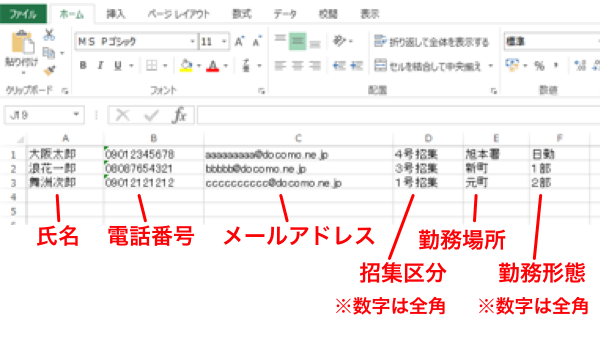
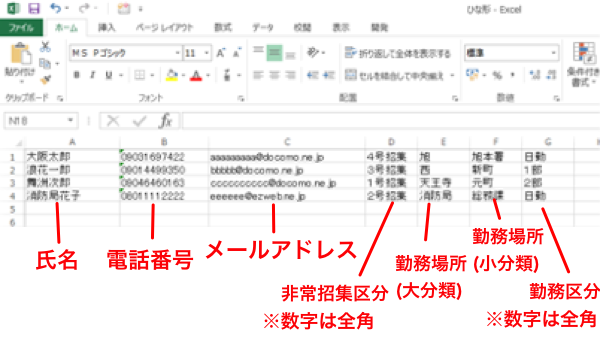
add guide22

diff --git a/FireEmergency/Guide22Dialog.swift b/FireEmergency/Guide22Dialog.swift
@@ -119,20 +119,20 @@ class Guide22Dialog {
         scroll.addSubview(text0)
         
         //TextView1生成
-        text1.frame = CGRectMake(0,40, parent.view.frame.width-20, 180)
+        text1.frame = CGRectMake(0,40, parent.view.frame.width-20, 208)
         text1.backgroundColor = UIColor.clearColor()
         text1.font = UIFont.systemFontOfSize(CGFloat(16))
         text1.textColor = UIColor.blackColor()
         text1.textAlignment = NSTextAlignment.Left
         text1.editable = false
         text1.scrollEnabled = true
-        text1.text="①エクセルデータの作成\n氏名、電話番号、メールアドレス、非常招集区分、所属(大分類)、所属(小分類)、勤務区分を入力してください。\n※非常招集区分、勤務区分の「数字」は必ず【全角】で入力してください。\n※項目の順番は必ず同じにしてください。入力データ以外の項目や番号を入力すると読み込めません。"
+        text1.text="①エクセルデータの作成\n氏名、電話番号、メールアドレス、非常招集区分、所属(大分類)、所属(小分類)、勤務区分を入力してください。\n※非常招集区分、勤務区分の「数字」は必ず【全角】で入力してください。\n※入力データ以外の項目や番号は入力しないでください。\n※勤務場所(大分類)の入力例　旭→正、旭消防署→誤"
         scroll.addSubview(text1)
 
         //image1生成
         let img1 = UIImage(named: "guide221.png")
         image1.image = img1
-        image1.frame = CGRectMake((parent.view.frame.width-320)/2, 240, 300, 173)
+        image1.frame = CGRectMake((parent.view.frame.width-320)/2, 250, 300, 173)
         scroll.addSubview(image1)
         
         //TextView2生成
@@ -149,11 +149,11 @@ class Guide22Dialog {
         //image2生成
         let img2 = UIImage(named: "guide222.png")
         image2.image = img2
-        image2.frame = CGRectMake((parent.view.frame.width-320)/2, 553, 300, 376)
+        image2.frame = CGRectMake((parent.view.frame.width-320)/2, 543, 300, 376)
         scroll.addSubview(image2)
         
         //TextView3生成
-        text3.frame = CGRectMake(0,949, parent.view.frame.width-20, 120)
+        text3.frame = CGRectMake(0,949, parent.view.frame.width-20, 132)
         text3.backgroundColor = UIColor.clearColor()
         text3.font = UIFont.systemFontOfSize(CGFloat(16))
         text3.textColor = UIColor.blackColor()
@@ -164,51 +164,50 @@ class Guide22Dialog {
         scroll.addSubview(text3)
         
         //image3生成
-        let img3 = UIImage(named: "guide213.png")
+        let img3 = UIImage(named: "guide223.png")
         image3.image = img3
-        image3.frame = CGRectMake((parent.view.frame.width-320)/2, 1146, 300, 426)
+        image3.frame = CGRectMake((parent.view.frame.width-320)/2, 1077, 300, 210)
         scroll.addSubview(image3)
         
-        
-        
-        //image4生成
-        let img4 = UIImage(named: "guide214.png")
-        image4.image = img4
-        image4.frame = CGRectMake((parent.view.frame.width-320)/2, 1720, 300, 146)
-        scroll.addSubview(image4)
-        
         //TextView4生成
-        text4.frame = CGRectMake(0, 1886, parent.view.frame.width-20, 80)
+        text4.frame = CGRectMake(0, 1307, parent.view.frame.width-20, 158)
         text4.backgroundColor = UIColor.clearColor()
         text4.font = UIFont.systemFontOfSize(CGFloat(16))
         text4.textColor = UIColor.blackColor()
         text4.textAlignment = NSTextAlignment.Left
         text4.editable = false
         text4.scrollEnabled = true
-        text4.text="登録したデータは一覧ボタンをタップし確認してください。"
+        text4.text="④メモ帳で表示した連絡網データの保存\n連絡網データを表示し「氏名、電話番号、メールアドレス、非常招集区分、勤務場所(大分類)、勤務場所(小分類)、勤務区分」が入力されているのを確認します。\n確認後、文字コードを「UTF-8」に変更し名前を付けて保存します。"
         scroll.addSubview(text4)
         
-        //image5生成
-        let img5 = UIImage(named: "guide63.png")
-        image5.image = img5
-        image5.frame = CGRectMake((parent.view.frame.width-320)/2, 1966, 300, 195)
-        scroll.addSubview(image5)
+        //image4生成
+        let img4 = UIImage(named: "guide224.png")
+        image4.image = img4
+        image4.frame = CGRectMake((parent.view.frame.width-320)/2, 1473, 300, 366)
+        scroll.addSubview(image4)
         
         //TextView5生成
-        text5.frame = CGRectMake(0, 2161, parent.view.frame.width-20, 100)
+        text5.frame = CGRectMake(0, 1853, parent.view.frame.width-20, 100)
         text5.backgroundColor = UIColor.clearColor()
         text5.font = UIFont.systemFontOfSize(CGFloat(16))
         text5.textColor = UIColor.blackColor()
         text5.textAlignment = NSTextAlignment.Left
         text5.editable = false
         text5.scrollEnabled = true
-        text5.text="画面にパスワードを入力します。\n「入力」をタップすると一覧表が表示されます。"
+        text5.text="⑤作成したデータの送信\n④で保存したデータを個人所有のスマートフォンにメール送信します。\niPhone標準の「メール」で受信できるメールアドレスに送信してください。"
         scroll.addSubview(text5)
+        
+        //image5生成
+        let img5 = UIImage(named: "guide225.png")
+        image5.image = img5
+        image5.frame = CGRectMake((parent.view.frame.width-320)/2, 1963, 300, 85)
+        scroll.addSubview(image5)
+        
         
         //image6生成
         let img6 = UIImage(named: "guide65.png")
         image6.image = img6
-        image6.frame = CGRectMake((parent.view.frame.width-320)/2, 2260, 300, 426)
+        image6.frame = CGRectMake((parent.view.frame.width-320)/2, 2058, 300, 426)
         scroll.addSubview(image6)
         
         //TextView6生成
